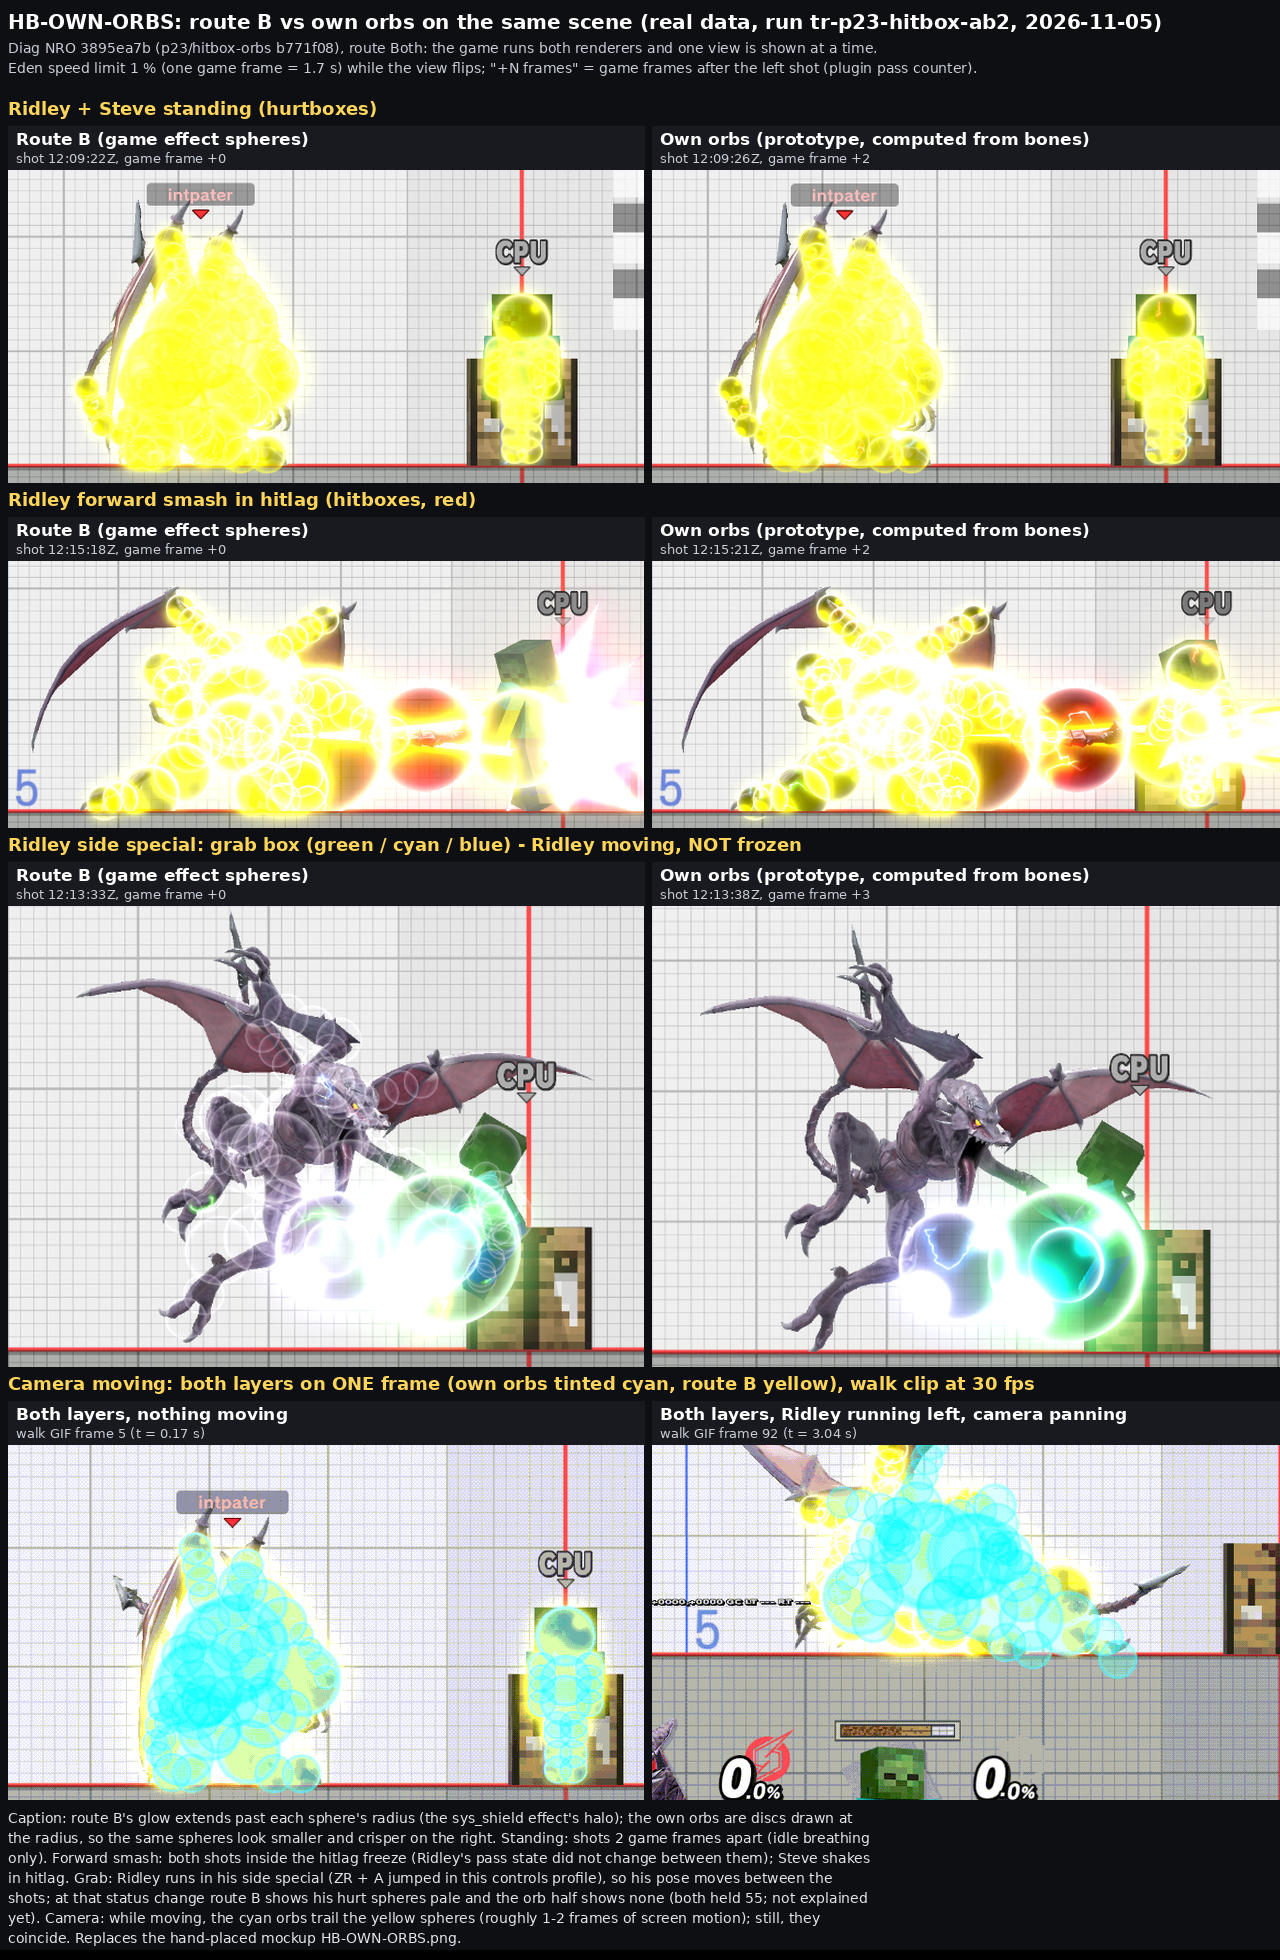
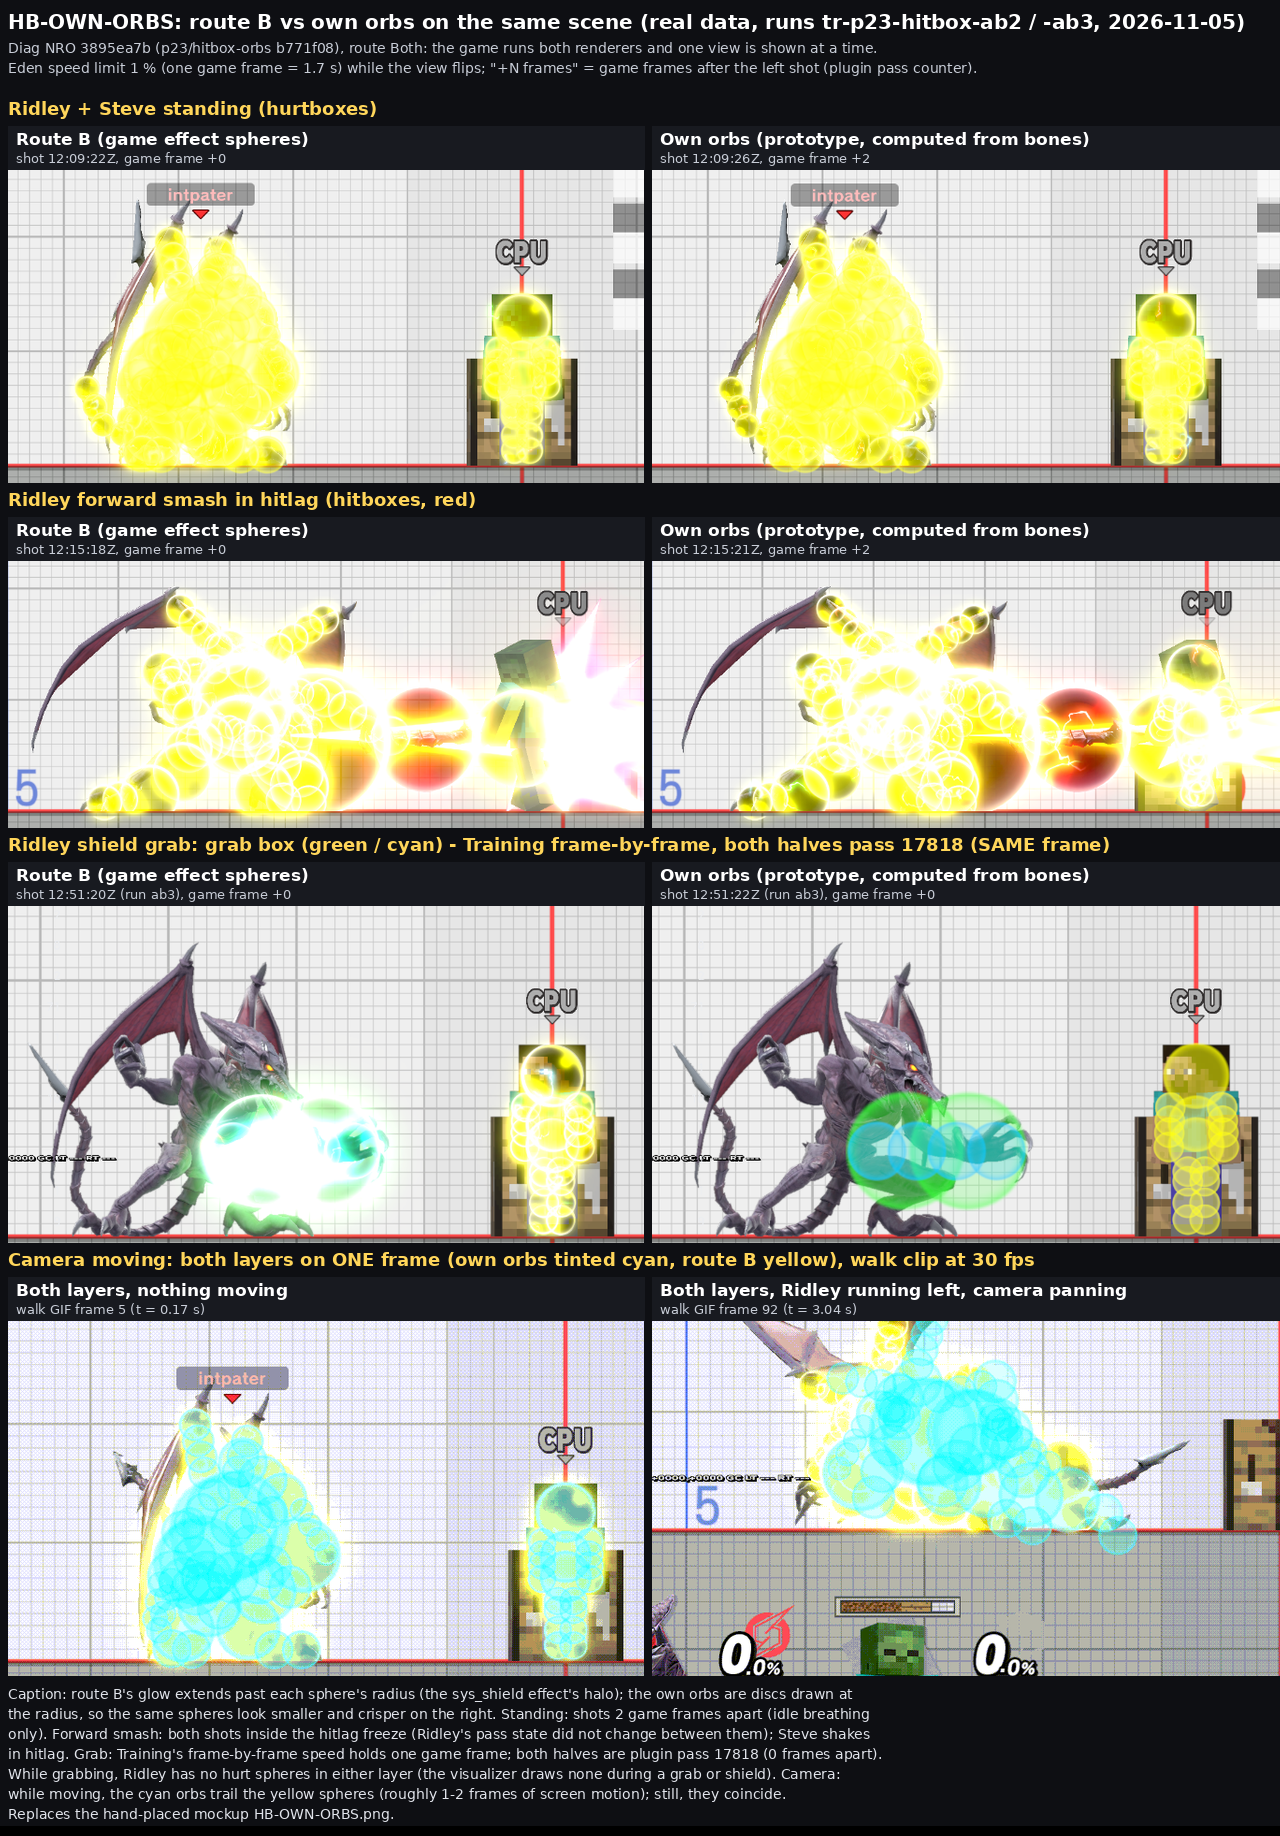
HB-OWN-ORBS A/B: grab row on one frame (Training frame-by-frame, run tr-p23-hitbox-ab3); the missing hurt discs were a capture lag (docs only)

diff --git a/docs/DECISIONS.md b/docs/DECISIONS.md
@@ -772,6 +772,9 @@ visualizer-Off frame.
 
 A/B from real data (2026-11-05, Eden run `tr-p23-hitbox-ab2`, diag prototype on `p23/hitbox-orbs`):
 [HB-OWN-ORBS-ab.png](decisions/HB-OWN-ORBS-ab.png) replaces the hand-placed mockup above.
+Grab row redone on one frame (run `tr-p23-hitbox-ab3`, Training's frame-by-frame speed, both halves pass 17818). The
+hurt discs missing in the first grab row were a capture lag, not a prototype bug: at 1 % speed during the side special
+the screen trailed the game by ~4 frames, so that "orbs" shot showed a frame from before the switch. No fix needed.
 
 ### INPUT-VIZ · A compact input display for combo timing — answered (2026-11-05)
 
